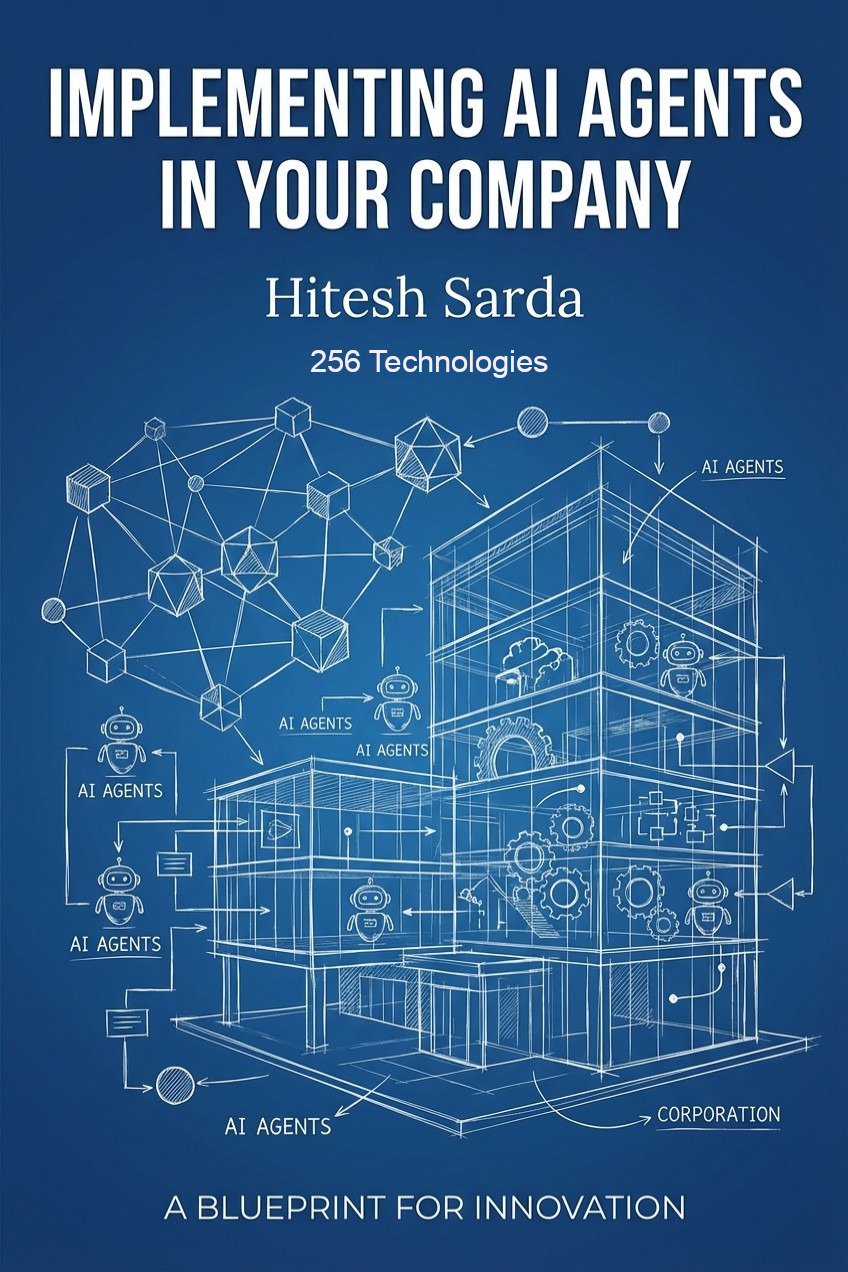
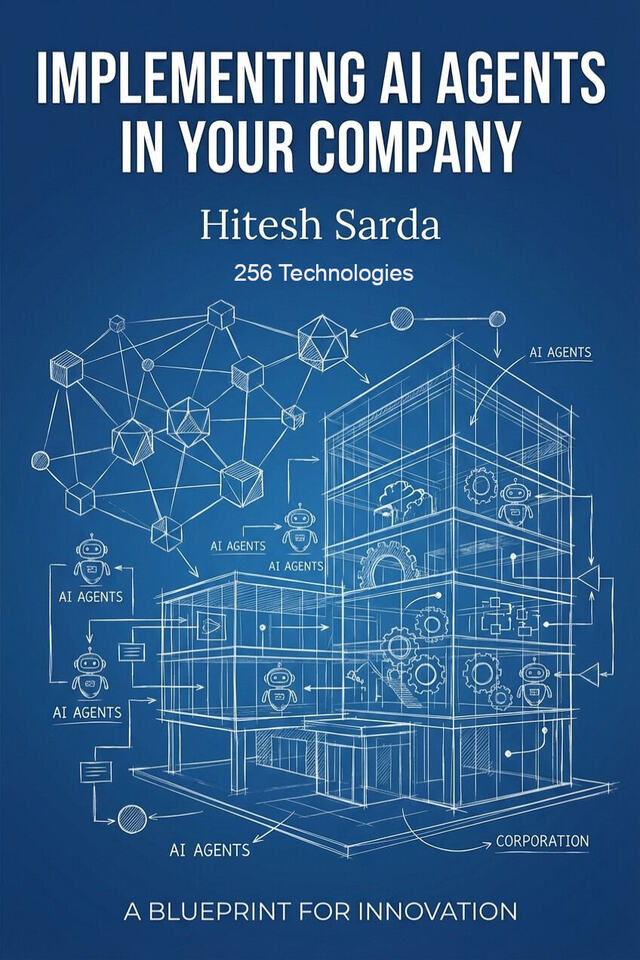
SEO pass: keyword research applied, technical fixes, agentic AI consulting page
Research (Google autocomplete for India plus a look at who ranks) is written
up in docs/seo-keyword-map.md: one primary phrase per page, competitors, and
content gaps.

On-page
- Titles retargeted to phrases people search: "AI consultant in Hyderabad",
  "AI consulting services in India", "Fractional Chief AI Officer (CAIO)",
  "AI training for executives", "LLM cost optimization", "AI agent
  governance framework", "agentic commerce", "why AI pilots fail", and the
  book as "how to implement AI agents in your business".
- New /agentic-ai-consulting/ page for AI agent consulting searches, linked
  from the book, the governance guide, Work with me, footer, llms.txt and
  schema.
- FAQs (visible and in FAQ schema) added for the long-tail questions:
  AI training page (5), fractional CAIO meaning and cost, AI expert in
  Hyderabad, what agentic commerce is, AI agent governance framework, AI
  pilot to production.

Technical
- Category and tag links now end in a slash; 2,907 internal links were
  each causing a 301.
- Markdown images are lazy-loaded and get width/height when Hugo can read
  them (render hook); post cover images get dimensions too.
- Book cover cut from 316 KB to about 130 KB.
- /feed/ and /rss/ (old WordPress feed URLs) redirect to /index.xml.
- Basic security headers and a week of caching for /images/.
- Two broken internal links in 2009 posts fixed.

Claude-Session: https://claude.ai/code/session_019xgc1VZ7S3vANBXGbc7k8T

diff --git a/themes/hitesh/layouts/_default/single.html b/themes/hitesh/layouts/_default/single.html
@@ -11,7 +11,7 @@
         </time>
         {{ with .Params.categories }}
         <div class="post-tags">
-          {{ range . }}<a href="{{ `categories/` | relURL }}{{ . | urlize | lower }}" class="tag">{{ . | humanize }}</a>{{ end }}
+          {{ range . }}<a href="{{ `categories/` | relURL }}{{ . | urlize | lower }}/" class="tag">{{ . | humanize }}</a>{{ end }}
         </div>
         {{ end }}
       </div>
@@ -28,8 +28,10 @@
     {{ with .Params.image }}
     {{ $img := . }}
     {{ $src := "" }}
+    {{ $dims := "" }}
     {{ with $.Resources.GetMatch $img }}
       {{ $src = .RelPermalink }}
+      {{ if and (eq .ResourceType "image") (ne .MediaType.SubType "svg") }}{{ $r := . }}{{ with try ($r.Width) }}{{ if not .Err }}{{ $dims = printf `width="%d" height="%d"` $r.Width $r.Height }}{{ end }}{{ end }}{{ end }}
     {{ else }}
       {{ if or (hasPrefix $img "http") (hasPrefix $img "/") }}
         {{ $src = $img | relURL }}
@@ -41,7 +43,7 @@
     <div class="post-image x-cover">{{ . | safeHTML }}</div>
     {{ else }}
     <div class="post-image">
-      <img src="{{ $src }}" alt="{{ $.Title }}" loading="lazy">
+      <img src="{{ $src }}" alt="{{ $.Title }}" {{ $dims | safeHTMLAttr }} fetchpriority="high">
     </div>
     {{ end }}
     {{ end }}
@@ -91,7 +93,7 @@
     <footer class="post-footer">
       {{ with .Params.tags }}
       <div class="post-footer-tags">
-        {{ range . }}<a href="{{ `tags/` | relURL }}{{ . | urlize | lower }}" class="tag">{{ . }}</a>{{ end }}
+        {{ range . }}<a href="{{ `tags/` | relURL }}{{ . | urlize | lower }}/" class="tag">{{ . }}</a>{{ end }}
       </div>
       {{ end }}
       {{/* Link each post to any guide that collects it (guides list posts as "YYYY/slug"). */}}

diff --git a/themes/hitesh/layouts/partials/schema.html b/themes/hitesh/layouts/partials/schema.html
@@ -68,6 +68,7 @@
   "makesOffer" (slice
     (dict "@type" "Offer" "itemOffered" (dict "@type" "Service" "name" "AI advisory and consulting" "url" (absURL "work-with-me/")))
     (dict "@type" "Offer" "itemOffered" (dict "@type" "Service" "name" "Fractional Head of AI" "url" (absURL "fractional-head-of-ai/")))
+    (dict "@type" "Offer" "itemOffered" (dict "@type" "Service" "name" "Agentic AI consulting" "url" (absURL "agentic-ai-consulting/")))
     (dict "@type" "Offer" "itemOffered" (dict "@type" "Service" "name" "AI keynote speaking and workshops" "url" (absURL "speaking/")))
     (dict "@type" "Offer" "itemOffered" (dict "@type" "Service" "name" "AI executive training for leadership teams" "url" (absURL "ai-training/")))
     (dict "@type" "Offer" "itemOffered" (dict "@type" "Service" "name" "AI MVP and proof-of-concept development" "url" (absURL "work-with-me/")))

diff --git a/themes/hitesh/layouts/_default/_markup/render-image.html b/themes/hitesh/layouts/_default/_markup/render-image.html
@@ -1,0 +1,14 @@
+{{- /* Markdown images: lazy-load, and add width/height when the image is a
+       page-bundle resource so the page does not jump as images arrive. Some
+       old WordPress uploads are not valid images, hence the `try`. */ -}}
+{{- $src := .Destination -}}
+{{- $dims := "" -}}
+{{- with .Page.Resources.GetMatch (strings.TrimPrefix "./" .Destination) -}}
+  {{- $src = .RelPermalink -}}
+  {{- if and (eq .ResourceType "image") (ne .MediaType.SubType "svg") -}}
+    {{- $r := . -}}
+    {{- with try ($r.Width) -}}{{- if not .Err -}}{{- $dims = printf `width="%d" height="%d"` $r.Width $r.Height -}}{{- end -}}{{- end -}}
+  {{- end -}}
+{{- end -}}
+<img src="{{ $src | safeURL }}" alt="{{ .Text }}"{{ with .Title }} title="{{ . }}"{{ end }} {{ $dims | safeHTMLAttr }} loading="lazy" decoding="async">
+{{- /**/ -}}

diff --git a/themes/hitesh/layouts/_default/list.html b/themes/hitesh/layouts/_default/list.html
@@ -25,7 +25,7 @@
             {{ end }}
             {{ with .Params.categories }}
             <div class="post-tags">
-              {{ range . }}<a href="{{ `categories/` | relURL }}{{ . | urlize | lower }}" class="tag">{{ . | humanize }}</a>{{ end }}
+              {{ range . }}<a href="{{ `categories/` | relURL }}{{ . | urlize | lower }}/" class="tag">{{ . | humanize }}</a>{{ end }}
             </div>
             {{ end }}
           </div>

diff --git a/themes/hitesh/layouts/partials/footer.html b/themes/hitesh/layouts/partials/footer.html
@@ -8,6 +8,7 @@
         <a href="/ai-advisor-hyderabad/">Hyderabad</a>
         <a href="/speaking/">Speaking</a>
         <a href="/fractional-head-of-ai/">Fractional Head of AI</a>
+        <a href="/agentic-ai-consulting/">Agentic AI consulting</a>
         <a href="/work-with-me/">Work with me</a>
         {{ with .Site.Params.github }}
         <a href="https://github.com/{{ . }}" target="_blank" rel="noopener noreferrer">GitHub</a>

diff --git a/content/agentic-ai-consulting/index.md b/content/agentic-ai-consulting/index.md
@@ -1,0 +1,44 @@
+---
+title: "Agentic AI consulting"
+seoTitle: "Agentic AI consulting: implement AI agents in your business"
+slug: "agentic-ai-consulting"
+description: "Independent consulting on AI agents: which workflows to hand over, build or buy, permissions and audit trails, and a pilot that proves value before you scale."
+showPhoto: true
+faq:
+  - q: "What is agentic AI consulting?"
+    a: "Advice on putting AI agents to work: software that takes a goal, plans steps and acts across your systems, where a chatbot only answers. The consulting covers which workflows suit an agent, whether to build or buy, what the agent may touch, and how to prove the result before scaling."
+  - q: "How do you implement AI agents in a business?"
+    a: "Start with one workflow where mistakes are cheap to catch and cheap to undo. Write down what the agent may do and what needs a person's approval, run a pilot against a baseline with a named owner, keep a record of every action, and widen the scope only as the evidence comes in. My free book, Implementing AI Agents in Your Company, walks through each step."
+  - q: "Should we build AI agents or buy an agent platform?"
+    a: "Most companies should buy the agent loop and keep what compounds: their own corrections, review rules and data. Building makes sense when the workflow is your differentiator and you have the engineers to maintain it."
+  - q: "Which business workflows are good first candidates for AI agents?"
+    a: "Work with clear inputs, a result that is quick to check, and a low cost of error: support triage, document processing, reconciliation, internal research and reporting. Avoid starting with long multi-step workflows, because small error rates compound across steps."
+  - q: "Do you build the agents as well?"
+    a: "I build small prototypes and proofs of concept to answer the key questions. For a full production build I help you choose a vendor or team and review their work, so the advice stays independent of who builds it."
+draft: false
+---
+
+AI agents are the first kind of AI that acts instead of answering: they take a goal, plan the steps and work across your systems. That is where the value is, and also where a mistake stops being a wrong sentence and becomes a wrong transaction.
+
+I help companies put agents to work without losing control of them. I wrote [Implementing AI Agents in Your Company](/book/), a free book for the managers who have to make this pay, and I write regularly about what happens when agents meet production: [how much autonomy to give them](/2026/the-autonomy-budget/), [how to limit what they can touch](/2026/coding-agents-blast-radius-job-title/), and [how to know afterwards what they did](/2026/what-your-agent-did/).
+
+## What we work through
+
+- **Where an agent belongs.** Which workflows have a business case and a result you can check, and which are better left to a person or a simpler tool.
+- **Build, buy or wait.** Agent platforms, model choice and what the running cost looks like at production volume.
+- **Permissions and blast radius.** What each agent may read, write and spend, and what enforces that limit.
+- **A record of what happened.** Logs and reviews good enough to explain an agent's action to a customer, an auditor or a regulator.
+- **A pilot that tells the truth.** One workflow, a baseline, a named owner, and an agreed test for going to production.
+- **People.** Who supervises the agent, what they need to learn, and how the team's work changes.
+
+## How to start
+
+Bring one workflow you are considering to an [advisory hour](/work-with-me/). You leave with a view on whether an agent fits, what it would take, and the smallest pilot that would prove it. If you need continuing senior oversight across several AI initiatives, that is the [fractional Head of AI](/fractional-head-of-ai/) arrangement.
+
+For the full argument on governing agents, read the [guide to deploying AI agents safely](/guides/ai-agent-governance/).
+
+{{< faq >}}
+
+## Talk it through
+
+[Book an AI advisory hour](/work-with-me/) or write to [hitesh@256tec.com](mailto:hitesh@256tec.com).

diff --git a/docs/seo-keyword-map.md b/docs/seo-keyword-map.md
@@ -1,0 +1,58 @@
+# SEO keyword map
+
+One primary search phrase per page, so pages do not compete with each other.
+Before adding a page or a post, check here that its phrase is not already owned.
+
+Demand evidence: Google autocomplete suggestions (India, November 2026) and a
+look at who ranks. Autocomplete shows that people search a phrase; it does not
+give monthly volumes. Replace this with Google Search Console data once the
+site has a few weeks of impressions.
+
+## Service pages
+
+| Page | Primary phrase | Also covers (seen in autocomplete) |
+|---|---|---|
+| `/` | Dr. Hitesh Sarda, AI advisor in Hyderabad | AI advisor India |
+| `/ai-advisor-hyderabad/` | AI consultant in Hyderabad | AI consulting in Hyderabad, AI advisor Hyderabad, AI expert in Hyderabad |
+| `/work-with-me/` | AI consulting services in India | AI strategy consulting, AI advisory services, best AI consultant in India |
+| `/fractional-head-of-ai/` | fractional Chief AI Officer (CAIO) | fractional Head of AI, fractional CAIO meaning, Chief AI Officer India |
+| `/agentic-ai-consulting/` | agentic AI consulting | AI agent consulting services, how to implement AI agents in business, build or buy AI agents |
+| `/ai-training/` | AI training for executives | AI course for executives, AI workshop for leaders, AI training for senior leaders, corporate AI training India |
+| `/speaking/` | AI keynote speaker India | AI speakers in India, artificial intelligence keynote speaker |
+| `/book/` | how to implement AI agents (free book) | AI agents for business leaders |
+
+## Guides
+
+| Guide | Primary phrase | Also covers |
+|---|---|---|
+| `ai-cost` | LLM cost optimization | LLM cost, reduce LLM costs, small model vs frontier model |
+| `ai-agent-governance` | AI agent governance framework | AI governance framework for agentic AI / for banks, audit trail for AI agents |
+| `ai-coding-agents` | AI coding agents (for engineering leaders) | AI code review, AI generated technical debt |
+| `ai-strategy-for-leaders` | AI strategy for business leaders | why AI pilots fail, AI pilot to production, build vs buy AI |
+| `ai-in-retail-and-loyalty` | agentic commerce | AI in retail, AI powered loyalty programs, agentic commerce in India |
+
+## Who ranks today (what we are up against)
+
+- "AI consultant in Hyderabad": directories (Clutch, DesignRush, Twine), job
+  listings and development agencies. No individual advisor ranks. A listing on
+  those directories and a Google Business Profile matter as much as the page.
+- "fractional Chief AI Officer India": almost nothing India-specific. The most
+  winnable commercial phrase on this list.
+- "AI speakers in India": speaker bureaus and event line-ups. Bureau listings
+  and named past events are what move this.
+
+## Gaps worth writing for (demand seen, no page yet)
+
+- "AI consultant cost", "AI consultant hourly rate", "how much does an AI
+  consultant charge": strong buyer intent. Needs Hitesh's real pricing model.
+- "AI readiness assessment" (framework, template): a checklist or template
+  would make a good download that collects leads.
+- "chief AI officer salary in India": could be answered inside a post on when
+  a fractional arrangement beats a full-time hire.
+- "AI use cases for banking": fits his banking background; no guide yet.
+
+## Deliberately not targeted
+
+- "AI company / AI development company in Hyderabad": agency intent.
+- Job and salary searches ("AI consultant jobs", "AI consultant salary").
+- "AI SEO consultant": different service.

diff --git a/content/guides/ai-agent-governance/index.md b/content/guides/ai-agent-governance/index.md
@@ -1,6 +1,6 @@
 ---
 title: "Deploying AI agents safely: autonomy, permissions and blast radius"
-seoTitle: "AI agent governance: permissions, blast radius and safe deployment"
+seoTitle: "AI agent governance framework: autonomy, permissions and audit trails"
 description: "How much autonomy to give an AI agent, how to scope its permissions by blast radius, and how to keep a record of what it actually did in production."
 cta: "Rolling out AI agents beyond a pilot?"
 weight: 2
@@ -24,10 +24,13 @@ faq:
     a: "Scope permissions per agent by the damage it could do, its blast radius, rather than by the job title of the person using it. Then check what actually enforces that scope, because a limited account is only as limited as the software enforcing it."
   - q: "Do we need an audit trail for AI agent actions?"
     a: "Yes. If an agent touches systems you depend on, you need to be able to say afterwards what it did, in what order and with which credentials. OpenAI could not answer it about its own agents months after they broke a package registry."
+
+  - q: "What is an AI agent governance framework?"
+    a: "A written set of decisions about your agents: which workflows they may run, what systems and data each one may touch, who approves an expansion of that scope, what gets logged, and how a person reviews or reverses what an agent did. It matters most in banks and other regulated businesses, where you must be able to explain an action after the fact."
 ---
 
 For most companies the question is no longer whether to use AI agents. The harder questions are how much to let them do on their own, what they are allowed to touch, and how you would know afterwards what they did.
 
 The posts here come at that from a few directions. Some deal with reliability and why agents stall on long workflows. Some deal with permissions, sandboxes and the infrastructure that has to enforce them. A few are about the less technical side: an agent with no reputation to lose behaves differently from an employee, and the scaffolding you wrote for last year's model may now be working against you.
 
-If you are about to roll out agents beyond a pilot, read the first three before anything else.
+If you are about to roll out agents beyond a pilot, read the first three before anything else. If you want help with your own rollout, see [agentic AI consulting](/agentic-ai-consulting/).

diff --git a/content/ai-training/index.md b/content/ai-training/index.md
@@ -1,9 +1,20 @@
 ---
 title: "AI training for leadership teams"
 slug: "ai-training"
-seoTitle: "AI training for leadership teams in Hyderabad and across India"
+seoTitle: "AI training for executives and leadership teams in India"
 description: "A six-week program that turns your leadership team AI-native: hands-on workflows on your own work, a governance framework, and a 90-day adoption roadmap."
 draft: false
+faq:
+  - q: "Who is this AI training for?"
+    a: "Senior executives and leadership teams: CEOs, CXOs, business heads and their direct reports. It is not a coding course. The aim is for leaders to use AI in their own work and to lead its adoption in their teams."
+  - q: "How is this different from an AI course for executives or a one-day AI workshop?"
+    a: "A course or a workshop teaches concepts and then ends. This program runs for six weeks around your leaders' own documents and decisions, with clinics, a showcase and a baseline, so you can see whether behaviour changed."
+  - q: "Do you run corporate AI training in Hyderabad and elsewhere in India?"
+    a: "Yes. I run the program in person for teams in Hyderabad and on site or remotely for leadership teams across India and abroad."
+  - q: "Does the training cover generative AI and AI agents?"
+    a: "Yes. Leaders work hands-on with generative AI tools on their own material, and the governance session covers AI agents: what they may be allowed to do, who approves it, and how to review what they did."
+  - q: "How many leaders can take part?"
+    a: "The program works best with one leadership team at a time, so that every leader gets hands-on time and presents at the showcase. Larger organisations run it as several cohorts."
 ---
 
 Most AI training is an awareness day. Everyone leaves impressed, nothing changes, and a month later the tools are gathering dust. This program is built for the opposite outcome: behavior change you can measure.
@@ -48,6 +59,8 @@ Any track can be extended:
 - **In-house team training** — a separate program for the builders who will deliver AI projects internally.
 - **AI Advisor retainer** — monthly strategic reviews, governance, and first-look implementation support.
 - **Additional cohorts** — extend the program to more teams on your established foundation.
+
+{{< faq >}}
 
 ## Enquire
 

diff --git a/content/guides/ai-in-retail-and-loyalty/index.md b/content/guides/ai-in-retail-and-loyalty/index.md
@@ -1,6 +1,6 @@
 ---
 title: "AI in retail and loyalty: when your next customer is an agent"
-seoTitle: "AI in retail and loyalty programs: agentic commerce and what retailers should do"
+seoTitle: "Agentic commerce and AI in retail and loyalty programs"
 description: "What changes for retailers and loyalty programs when AI agents start shopping for people, and which parts of the customer relationship stay worth owning."
 cta: "Working out what AI agents mean for your retail or loyalty business?"
 weight: 5
@@ -20,6 +20,9 @@ faq:
     a: "Loyalty built on app engagement weakens when software does the buying. What stays valuable is the customer relationship and data you own directly, and benefits concrete enough for an agent to weigh."
   - q: "Can AI help retail and loyalty businesses today?"
     a: "Yes, in narrower ways than the hype suggests: customer service, offer targeting and analysis of loyalty data are good places to start, provided the output is easy to check before it reaches a customer."
+
+  - q: "What is agentic commerce?"
+    a: "Agentic commerce is shopping carried out by an AI agent on a person's behalf: the agent searches, compares, chooses and pays, often inside a chat or messaging app. For a retailer it means the buyer reading your prices, policies and product data may be software."
 ---
 
 I spent years building loyalty and marketing software for retailers, and the problem has always been the same: owning the relationship with the customer when someone else sits in between. After Covid that middleman was the marketplace. Now it is starting to be an AI agent that shops on the customer's behalf.

diff --git a/content/fractional-head-of-ai/index.md b/content/fractional-head-of-ai/index.md
@@ -1,6 +1,6 @@
 ---
-title: "Fractional Head of AI"
-seoTitle: "Fractional Head of AI and Chief AI Officer in India"
+title: "Fractional Head of AI and Chief AI Officer"
+seoTitle: "Fractional Chief AI Officer (CAIO) and Head of AI in India"
 slug: "fractional-head-of-ai"
 description: "Senior AI leadership for a few days a month: strategy, vendor and build decisions, governance and delivery review, for companies that are not ready for a full-time hire."
 showPhoto: true
@@ -17,6 +17,10 @@ faq:
     a: "No. I am based in Hyderabad and can be on site there easily. I work remotely with companies across India and abroad, with visits when they are useful."
   - q: "How do we start?"
     a: "With an advisory hour. We talk through where you are, and you get an honest view of whether a fractional arrangement fits or whether something smaller will do."
+  - q: "What does fractional CAIO mean?"
+    a: "CAIO stands for Chief AI Officer. A fractional CAIO is the same role held part time: one experienced person owns AI strategy, governance and reporting for your company for a few days a month, usually alongside other clients. Head of AI and Chief AI Officer describe the same responsibility at different company sizes."
+  - q: "What does a fractional Chief AI Officer cost compared with a full-time hire?"
+    a: "You pay for the days you use, so the cost is a fraction of a full-time executive salary, with no notice period, equity or recruitment fee. The exact figure depends on the days per month and the scope, which we agree after the first conversation."
 draft: false
 ---
 

diff --git a/content/guides/ai-strategy-for-leaders/index.md b/content/guides/ai-strategy-for-leaders/index.md
@@ -1,6 +1,6 @@
 ---
 title: "AI strategy for leadership teams: pilots, build versus buy and moats"
-seoTitle: "AI strategy for leadership teams: evaluating AI pilots, build vs buy and where the moat is"
+seoTitle: "AI strategy for business leaders: why AI pilots fail, build vs buy"
 description: "How to run an AI pilot that tells you the truth, when to build versus buy, where AI pays off first, and why the model you pick is rarely your advantage."
 cta: "Preparing an AI roadmap or a board discussion?"
 weight: 4
@@ -27,6 +27,9 @@ faq:
     a: "Where checking the output is cheap. AI pays off fastest on work whose results can be verified quickly, and slowest where people need weeks to trust an answer."
   - q: "Is the AI model a competitive advantage?"
     a: "Rarely. Open-weight models now come close to frontier quality at a fraction of the cost, so durable advantage comes from your data, your workflows and how fast your organisation learns."
+
+  - q: "How do you take an AI pilot to production?"
+    a: "Decide before the pilot what result would justify production, measure against a baseline on real work, name one owner for the outcome, and budget for the checking and integration work the demo skipped. Pilots that stall usually had no owner and no agreed test of success."
 ---
 
 The questions that decide whether AI pays off are rarely about which model is best. They are about whether the pilot actually worked, whether to build or buy, where to start, and what will still be an advantage in two years when everyone has the same models.
